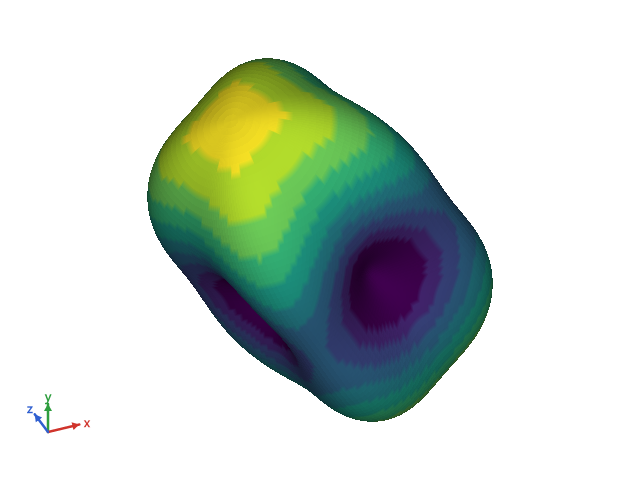
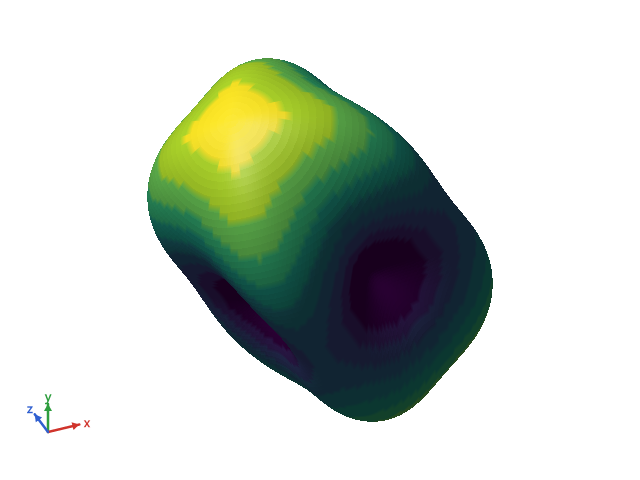
E147: luz-chave para mostrar o relevo da superficie
MeshItem.Lighting escolhe a luz da malha. Headlight, o padrao, continua a
luz no olho, que deixa a superficie chapada na vista de frente. KeyLight e
uma luz do alto a esquerda da tela, na frente da cena, com um brilho branco
pequeno (Blinn): as encostas viradas para a luz clareiam e as outras
escurecem, e a normal e tomada pelo lado que olha para o observador, entao o
verso de uma superficie de duas faces e aceso como a frente.

SurfaceBuilder.Spherical e HeightField recebem a luz; Recolor a preserva. A
amostra e o README usam a luz-chave, e docs/images/surface.png foi regerada.

Claude-Session: https://claude.ai/code/session_01NFRdPcnNEuqkXu5ce9QBZx

Changed region(s): [[0.2188, 0.0938, 0.7812, 0.875]]

diff --git a/src/Viewer3D/FramePreparer.cs b/src/Viewer3D/FramePreparer.cs
@@ -4,14 +4,30 @@ namespace Viewer3D;
 
 /// <summary>
 /// Turns a <see cref="Scene"/> and a <see cref="Camera"/> into a <see cref="DrawList"/>: rotates and projects, drops
-/// the back faces of single-sided meshes, lights each face with a light attached to the viewer (plus a minimum of
-/// ambient light), and orders everything back to front. One instance keeps its scratch buffers between frames, so
-/// it is not thread-safe: use one per thread.
+/// the back faces of single-sided meshes, lights each face as its mesh asks (<see cref="MeshItem.Lighting"/>: a light
+/// attached to the viewer, or a key light from the upper left; both with a minimum of ambient light), and orders
+/// everything back to front. One instance keeps its scratch buffers between frames, so it is not thread-safe: use one
+/// per thread.
 /// </summary>
 public sealed class FramePreparer
 {
-    /// <summary>Light that reaches faces turned away from the viewer.</summary>
+    /// <summary>Light that reaches faces turned away from the light.</summary>
     public const float Ambient = 0.35f;
+
+    /// <summary>
+    /// Unit direction towards the key light (<see cref="MeshLighting.KeyLight"/>), in view space (x right, y up, z
+    /// towards the viewer): from the upper left and in front.
+    /// </summary>
+    public static readonly Vector3 KeyLightDirection = Vector3.Normalize(new Vector3(-0.45f, 0.55f, 0.70f));
+
+    /// <summary>Strength of the white highlight of the key light, at its peak.</summary>
+    public const float Highlight = 0.3f;
+
+    /// <summary>Exponent of the highlight: the larger, the smaller the spot.</summary>
+    const float Shininess = 24f;
+
+    /// <summary>Halfway between the key light and the eye (Blinn): a face along it shows the highlight.</summary>
+    static readonly Vector3 HalfVector = Vector3.Normalize(KeyLightDirection + Vector3.UnitZ);
 
     /// <summary>Pieces of a line when the scene has no sphere to size them by.</summary>
     const int LinePieces = 16;
@@ -98,6 +114,7 @@ public sealed class FramePreparer
         Rgba[]? vertexColors = mesh.VertexColors;
         Rgba[]? faceColors = mesh.FaceColors;
         Rgba fallback = mesh.Color;
+        bool keyLight = mesh.Lighting == MeshLighting.KeyLight;
         int tc = list.TriangleCount, cc = list.CommandCount;
         float[] xy = list.TriXY;
         uint[] colors = list.TriColor;
@@ -114,7 +131,13 @@ public sealed class FramePreparer
             float wx = vx[c] - vx[a], wy = vy[c] - vy[a], wz = vz[c] - vz[a];
             float nx = uy * wz - uz * wy, ny = uz * wx - ux * wz, nz = ux * wy - uy * wx;
             float len = MathF.Sqrt(nx * nx + ny * ny + nz * nz);
-            float light = len > 0 ? Ambient + (1 - Ambient) * MathF.Abs(nz) / len : 1f;
+            float light, shine = 0;
+            if (len <= 0)
+                light = 1f;
+            else if (keyLight)
+                (light, shine) = KeyLight(nx, ny, nz, len);
+            else
+                light = Ambient + (1 - Ambient) * MathF.Abs(nz) / len;
 
             int o = 6 * tc;
             xy[o] = sx[a]; xy[o + 1] = sy[a];
@@ -123,13 +146,13 @@ public sealed class FramePreparer
             int q = 3 * tc;
             if (vertexColors is not null)
             {
-                colors[q] = vertexColors[a].Shade(light).ToArgb();
-                colors[q + 1] = vertexColors[b].Shade(light).ToArgb();
-                colors[q + 2] = vertexColors[c].Shade(light).ToArgb();
+                colors[q] = Lit(vertexColors[a], light, shine);
+                colors[q + 1] = Lit(vertexColors[b], light, shine);
+                colors[q + 2] = Lit(vertexColors[c], light, shine);
             }
             else
             {
-                uint face = (faceColors is not null ? faceColors[t] : fallback).Shade(light).ToArgb();
+                uint face = Lit(faceColors is not null ? faceColors[t] : fallback, light, shine);
                 colors[q] = colors[q + 1] = colors[q + 2] = face;
             }
             list.TriItem[tc] = itemIndex;
@@ -141,6 +164,27 @@ public sealed class FramePreparer
         }
         list.TriangleCount = tc;
         list.CommandCount = cc;
+    }
+
+    /// <summary>
+    /// Key light of a face with view-space normal (nx, ny, nz) of length <paramref name="len"/>: diffuse light plus the
+    /// strength of the highlight. The normal is taken on the side that faces the viewer, so the back of a double-sided
+    /// surface is lit like its front.
+    /// </summary>
+    static (float Light, float Shine) KeyLight(float nx, float ny, float nz, float len)
+    {
+        float s = nz < 0 ? -1f / len : 1f / len;
+        var n = new Vector3(nx * s, ny * s, nz * s);
+        float diffuse = MathF.Max(0, Vector3.Dot(n, KeyLightDirection));
+        float shine = diffuse > 0 ? Highlight * MathF.Pow(MathF.Max(0, Vector3.Dot(n, HalfVector)), Shininess) : 0;
+        return (Ambient + (1 - Ambient) * diffuse, shine);
+    }
+
+    /// <summary>A color shaded by <paramref name="light"/>, then pulled towards white by <paramref name="shine"/>.</summary>
+    static uint Lit(Rgba color, float light, float shine)
+    {
+        Rgba shaded = color.Shade(light);
+        return (shine > 0 ? Rgba.Lerp(shaded, new Rgba(255, 255, 255, shaded.A), shine) : shaded).ToArgb();
     }
 
     static void AddSphere(DrawList list, in Projector p, SphereItem sphere, int itemIndex)

diff --git a/test/Viewer3D.Tests/FramePreparerTests.cs b/test/Viewer3D.Tests/FramePreparerTests.cs
@@ -62,6 +62,83 @@ public class FramePreparerTests
         Assert.Equal((byte)(255 * expected + 0.5f), Rgba.FromArgb(away.TriangleColors[0]).R);
     }
 
+    /// <summary>A triangle counter-clockwise around <paramref name="normal"/> (the default camera keeps world = view).</summary>
+    static MeshItem Facing(Vector3 normal, Rgba color, bool reversed = false, bool doubleSided = false)
+    {
+        Vector3 n = Vector3.Normalize(normal);
+        Vector3 u = Vector3.Normalize(Vector3.Cross(n, MathF.Abs(n.X) < 0.9f ? Vector3.UnitX : Vector3.UnitY));
+        Vector3 v = Vector3.Cross(n, u);
+        return new MeshItem
+        {
+            Positions = [u, v, -u - v],
+            Indices = reversed ? [0, 2, 1] : [0, 1, 2],
+            Color = color,
+            DoubleSided = doubleSided,
+            Lighting = MeshLighting.KeyLight,
+        };
+    }
+
+    static byte Red(MeshItem mesh) => Rgba.FromArgb(Prepare(mesh).TriangleColors[0]).R;
+
+    [Fact]
+    public void MeshItem_IsLitByTheHeadlightByDefault()
+    {
+        Assert.Equal(MeshLighting.Headlight, Triangle(0, Rgba.White).Lighting);
+    }
+
+    [Fact]
+    public void Prepare_KeyLight_SlopeTowardsTheUpperLeftIsBrighterThanTheFrontAndTheFrontThanTheLowerRight()
+    {
+        byte upperLeft = Red(Facing(new(-0.4f, 0.4f, 1), Rgba.White));
+        byte front = Red(Facing(Vector3.UnitZ, Rgba.White));
+        byte lowerRight = Red(Facing(new(0.4f, -0.4f, 1), Rgba.White));
+
+        Assert.True(upperLeft > front, $"{upperLeft} > {front}");
+        Assert.True(front > lowerRight, $"{front} > {lowerRight}");
+    }
+
+    [Fact]
+    public void Prepare_KeyLight_FaceTurnedAwayFromTheLightGetsOnlyTheAmbient()
+    {
+        // Normal (0.6, -0.6, 0.2): dot with the light (-0.45, 0.55, 0.70) is negative.
+        byte red = Red(Facing(new(0.6f, -0.6f, 0.2f), Rgba.White));
+
+        Assert.Equal((byte)(255 * FramePreparer.Ambient + 0.5f), red);
+    }
+
+    [Fact]
+    public void Prepare_KeyLight_FaceHalfwayBetweenLightAndEyeShowsTheHighlight()
+    {
+        // A black face has no diffuse color to show: what it shows is the highlight, Highlight at its peak.
+        Vector3 halfway = Vector3.Normalize(FramePreparer.KeyLightDirection + Vector3.UnitZ);
+
+        byte red = Red(Facing(halfway, Rgba.Black));
+
+        int peak = (int)(255 * FramePreparer.Highlight + 0.5f);
+        Assert.InRange(red, peak - 2, peak);
+    }
+
+    [Fact]
+    public void Prepare_KeyLight_BackOfADoubleSidedSurfaceIsLitLikeItsFront()
+    {
+        Vector3 normal = new(-0.3f, 0.2f, 1);
+
+        uint front = Prepare(Facing(normal, new Rgba(200, 120, 40), doubleSided: true)).TriangleColors[0];
+        uint back = Prepare(Facing(normal, new Rgba(200, 120, 40), reversed: true, doubleSided: true)).TriangleColors[0];
+
+        Assert.Equal(front, back);
+    }
+
+    [Fact]
+    public void Prepare_KeyLight_KeepsTheAlpha()
+    {
+        Vector3 halfway = Vector3.Normalize(FramePreparer.KeyLightDirection + Vector3.UnitZ);
+
+        byte alpha = Rgba.FromArgb(Prepare(Facing(halfway, new Rgba(10, 20, 30, 128))).TriangleColors[0]).A;
+
+        Assert.Equal(128, alpha);
+    }
+
     [Fact]
     public void Prepare_UsesVertexColorsBeforeFaceColors()
     {

diff --git a/src/Viewer3D/SurfaceBuilder.cs b/src/Viewer3D/SurfaceBuilder.cs
@@ -23,7 +23,8 @@ public static class SurfaceBuilder
     /// <param name="scalars">Values to color by, on the same grid; null colors by the radius.</param>
     /// <param name="map">Color map; null leaves the mesh with its single color.</param>
     /// <param name="id">Identifier of the mesh.</param>
-    public static MeshItem Spherical(IReadOnlyList<IReadOnlyList<double>> radii, int n, IReadOnlyList<IReadOnlyList<double>>? scalars = null, IColorMap? map = null, int id = 0)
+    /// <param name="lighting">How the mesh is lit; <see cref="MeshLighting.KeyLight"/> shows the relief best.</param>
+    public static MeshItem Spherical(IReadOnlyList<IReadOnlyList<double>> radii, int n, IReadOnlyList<IReadOnlyList<double>>? scalars = null, IColorMap? map = null, int id = 0, MeshLighting lighting = MeshLighting.Headlight)
     {
         CheckSphericalGrid(radii, n, nameof(radii));
         if (scalars is not null)
@@ -77,15 +78,16 @@ public static class SurfaceBuilder
             Indices = indices,
             Scalars = values,
             VertexColors = map is null ? null : Colors(values, map),
+            Lighting = lighting,
         };
     }
 
     /// <summary>
     /// An open surface z(x, y). <paramref name="heights"/> has one row per y (from <paramref name="yMin"/> to
     /// <paramref name="yMax"/>) and one column per x (from <paramref name="xMin"/> to <paramref name="xMax"/>). The mesh
-    /// is double-sided.
+    /// is double-sided. <paramref name="lighting"/> is as in <see cref="Spherical"/>.
     /// </summary>
-    public static MeshItem HeightField(IReadOnlyList<IReadOnlyList<double>> heights, float xMin, float xMax, float yMin, float yMax, IReadOnlyList<IReadOnlyList<double>>? scalars = null, IColorMap? map = null, int id = 0)
+    public static MeshItem HeightField(IReadOnlyList<IReadOnlyList<double>> heights, float xMin, float xMax, float yMin, float yMax, IReadOnlyList<IReadOnlyList<double>>? scalars = null, IColorMap? map = null, int id = 0, MeshLighting lighting = MeshLighting.Headlight)
     {
         ArgumentNullException.ThrowIfNull(heights);
         int rows = heights.Count;
@@ -130,6 +132,7 @@ public static class SurfaceBuilder
             Scalars = values,
             VertexColors = map is null ? null : Colors(values, map),
             DoubleSided = true,
+            Lighting = lighting,
         };
     }
 
@@ -185,6 +188,7 @@ public static class SurfaceBuilder
             VertexColors = Colors(scalars, map),
             Color = mesh.Color,
             DoubleSided = mesh.DoubleSided,
+            Lighting = mesh.Lighting,
         };
     }
 

diff --git a/src/Viewer3D/SceneItems.cs b/src/Viewer3D/SceneItems.cs
@@ -13,6 +13,23 @@ public abstract class SceneItem
     public int Id { get; init; }
 }
 
+/// <summary>How <see cref="FramePreparer"/> lights the faces of a mesh.</summary>
+public enum MeshLighting
+{
+    /// <summary>
+    /// A light at the eye: a face turned to the viewer is fully lit, a tilted one darker. Even and flat, so a surface
+    /// seen head on shows little relief.
+    /// </summary>
+    Headlight,
+
+    /// <summary>
+    /// A light from the upper left, in front of the scene (<see cref="FramePreparer.KeyLightDirection"/>), with a small
+    /// white highlight. Slopes facing the light are bright and the others dark, which shows the relief of a surface
+    /// from any side. The light turns with the view, so it keeps coming from the upper left of the screen.
+    /// </summary>
+    KeyLight,
+}
+
 /// <summary>A triangle mesh. Triangles are counter-clockwise when seen from their front side.</summary>
 public sealed class MeshItem : SceneItem
 {
@@ -36,6 +53,9 @@ public sealed class MeshItem : SceneItem
 
     /// <summary>When true, back faces are drawn too (open surfaces such as height fields).</summary>
     public bool DoubleSided { get; init; }
+
+    /// <summary>How the faces are lit. The default, <see cref="MeshLighting.Headlight"/>, lights from the eye.</summary>
+    public MeshLighting Lighting { get; init; }
 
     /// <summary>Number of triangles.</summary>
     public int TriangleCount => Indices.Length / 3;

diff --git a/test/Viewer3D.Tests/SurfaceBuilderTests.cs b/test/Viewer3D.Tests/SurfaceBuilderTests.cs
@@ -157,6 +157,21 @@ public class SurfaceBuilderTests
     }
 
     [Fact]
+    public void Lighting_IsTheHeadlightUnlessAsked_AndRecolorKeepsIt()
+    {
+        MeshItem plain = SurfaceBuilder.Spherical(Unit(2), 2);
+        MeshItem lit = SurfaceBuilder.Spherical(Unit(2), 2, lighting: MeshLighting.KeyLight);
+        MeshItem field = SurfaceBuilder.HeightField([[0, 1], [2, 3]], 0, 1, 0, 1, lighting: MeshLighting.KeyLight);
+
+        MeshItem recolored = SurfaceBuilder.Recolor(lit, new FuncColorMap(_ => Rgba.Black));
+
+        Assert.Equal(MeshLighting.Headlight, plain.Lighting);
+        Assert.Equal(MeshLighting.KeyLight, lit.Lighting);
+        Assert.Equal(MeshLighting.KeyLight, field.Lighting);
+        Assert.Equal(MeshLighting.KeyLight, recolored.Lighting);
+    }
+
+    [Fact]
     public void Recolor_WithNewScalars_ColorsByThem()
     {
         MeshItem mesh = SurfaceBuilder.Spherical(Unit(2), 2);

diff --git a/samples/Viewer3D.Sample/Program.cs b/samples/Viewer3D.Sample/Program.cs
@@ -111,7 +111,7 @@ internal static class Scenes
             }
         }
         double[] levels = Enumerable.Range(0, Palette.Length).Select(k => 0.6 + 0.08 * k).ToArray();
-        return new Scene([SurfaceBuilder.Spherical(radii, n, map: new LevelColorMap(levels, Palette))]);
+        return new Scene([SurfaceBuilder.Spherical(radii, n, map: new LevelColorMap(levels, Palette), lighting: MeshLighting.KeyLight)]);
     }
 
     public static Scene HeightField()
@@ -129,7 +129,7 @@ internal static class Scenes
             }
         }
         var map = new FuncColorMap(v => Rgba.Lerp(Palette[0], Palette[^1], (float)((v + 1) / 2)));
-        return new Scene([SurfaceBuilder.HeightField(z, -4, 4, -4, 4, map: map)]);
+        return new Scene([SurfaceBuilder.HeightField(z, -4, 4, -4, 4, map: map, lighting: MeshLighting.KeyLight)]);
     }
 
     public static Scene Atoms()

diff --git a/README.md b/README.md
@@ -30,13 +30,14 @@ using Viewer3D.Avalonia;
 int n = 90;
 double[][] radii = /* your grid */;
 var map = new LevelColorMap(levels, colors);           // or new FuncColorMap(v => ...)
-MeshItem surface = SurfaceBuilder.Spherical(radii, n, map: map);
+// The key light, from the upper left, shows the relief; the default light, at the eye, is flatter.
+MeshItem surface = SurfaceBuilder.Spherical(radii, n, map: map, lighting: MeshLighting.KeyLight);
 
 var viewer = new Viewer3DControl
 {
     Scene = new Scene([surface]),
     // Optional: a lighter scene painted while the user drags or zooms.
-    LowDetailScene = new Scene([SurfaceBuilder.Spherical(SurfaceBuilder.Decimate(radii, n, 3), n / 3, map: map)]),
+    LowDetailScene = new Scene([SurfaceBuilder.Spherical(SurfaceBuilder.Decimate(radii, n, 3), n / 3, map: map, lighting: MeshLighting.KeyLight)]),
     AxisDirections = [new(Vector3.UnitX, "a"), new(Vector3.UnitY, "b"), new(Vector3.UnitZ, "c")],
 };
 viewer.Camera!.Frame(viewer.Scene);
@@ -46,7 +47,9 @@ byte[] png = viewer.RenderToPng(1600, 1200);
 
 Scenes are lists of items: `MeshItem` (triangles with a color per vertex or per face), `SphereItem`, `RodItem` (a
 stick drawn in two halves, each with the color of its end, cut where it enters the spheres), `LineItem` and
-`LabelItem`. Each item has an `Id`, which picking reports back.
+`LabelItem`. Each item has an `Id`, which picking reports back. A mesh is lit by a light at the eye
+(`MeshLighting.Headlight`, the default) or by a key light from the upper left of the screen with a small highlight
+(`MeshLighting.KeyLight`), which shows the relief of a surface seen head on.
 
 ## Interaction
 

diff --git a/CHANGELOG.md b/CHANGELOG.md
@@ -5,7 +5,8 @@
 First version.
 
 - `Viewer3D`: scene items (meshes, spheres, rods, lines, labels), orbiting camera with orthographic and perspective
-  projection, frame preparation with back-face culling, a light attached to the viewer and back-to-front ordering
+  projection, frame preparation with back-face culling, a light attached to the viewer or a key light from the upper left with a
+  small highlight (`MeshLighting`, chosen per mesh), and back-to-front ordering
   (lines are cut where they pass inside a sphere and split into short pieces, so a cell edge behind an atom is never
   painted over it), picking, the axis indicator, level and function color maps, and builders for spherical surfaces and height fields.
 - `Viewer3D.Avalonia`: `Viewer3DControl` for Avalonia 12.1, painted with SkiaSharp, with a low detail scene during
